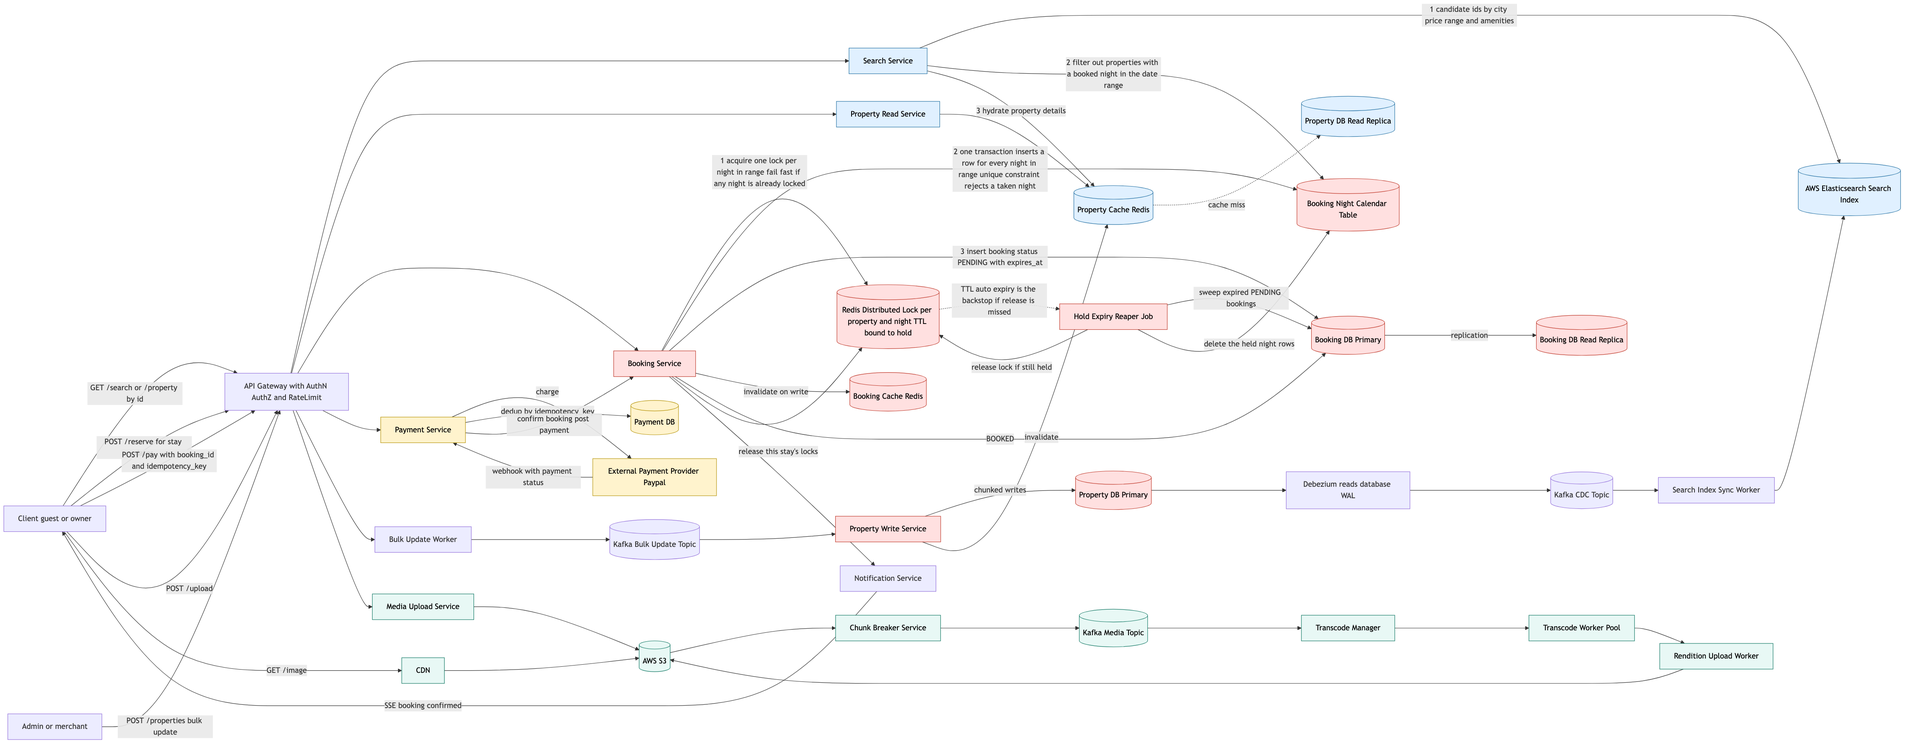
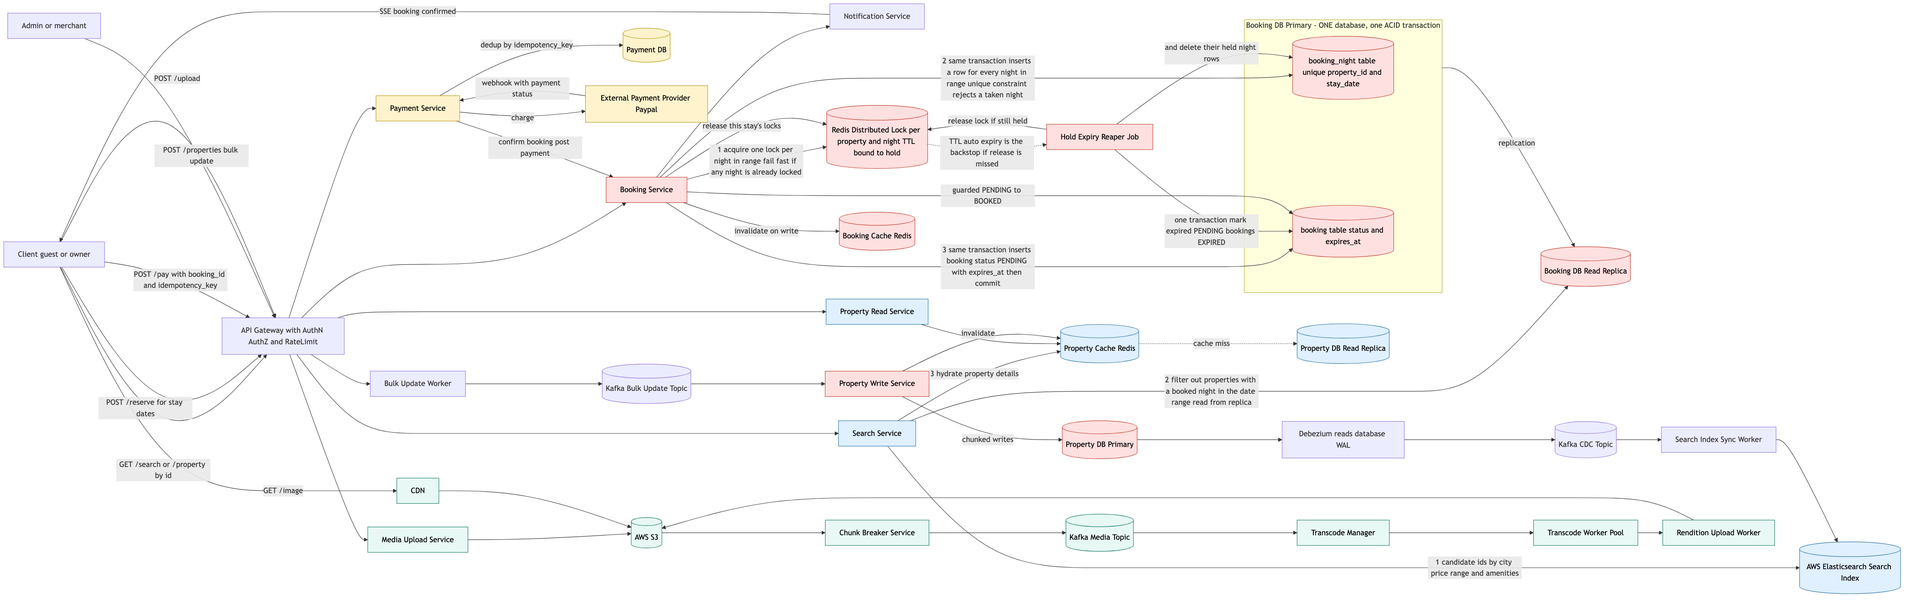
updated the design of booking system

diff --git a/practice/15-session/README.md b/practice/15-session/README.md
@@ -58,6 +58,7 @@ The crux isn't listing or paying for a property — it's that **two guests can a
 | **The double-booking guard has no durable backstop.** The requirements name a Redis distributed lock with a TTL hold, but the `Bookings` schema has a single `date` field with no unique constraint or range-exclusion — if the lock expires, is skipped, or a request retries, nothing in the database itself stops two bookings for the same night. | A distributed lock is a mutex, not a source of truth. Back it with a **unique constraint on `(property_id, stay_date)`** — since each property is a single bookable unit, that constraint alone rejects a second booking for the same night, no counter needed — so the database enforces the invariant even if the lock fails. | [Concurrency Control](../../concepts/08-distributed-systems/concurrency-control.md) |
 | **`Bookings.date` doesn't model a stay.** A single date field can't represent a check-in/check-out range, and it's ambiguous whether one row means one night or one whole stay — a booking for a 3-night stay has nowhere unambiguous to live. | Model one row per **booked night** (`property_id`, `stay_date`), with a **unique constraint on the pair** — since each property is a single bookable unit (Airbnb-style, not multi-room-type), the constraint alone *is* the double-booking guard: a second `INSERT` for the same property/night simply fails. Wrap one `INSERT` per night of the stay in a single transaction so a partial overlap can't leave a half-booked stay. See the Ideal Design schema below. | [Databases — Fundamentals](../../concepts/05-databases-and-storage/databases-fundamentals.md) |
 | **Search never checks availability.** The Property Reader service filters by city (via Elasticsearch) but never joins against Bookings — a guest can see, and attempt to book, a property that's already fully booked for their dates. | Wire search as two steps: candidate ids from the index (city/price), then a **live availability filter** against the booking-night table before returning results — the same "index for candidates, hydrate/verify from the source of truth" pattern already used for property details. | [Sharding & Partitioning](../../concepts/05-databases-and-storage/sharding-and-partitioning.md) |
+| **`booking` and the night-claim must commit together.** The original canvas has a single `Bookings` table, but the fix (one `booking_night` row per night) creates a second table whose rows and the `booking` row have to be written as one unit; drawn as a separate store or service, a crash between the two writes leaves nights locked with no booking, or a booking with no nights (a double-booking window). | Keep `booking_night` and `booking` in **one database** so the reserve is one local ACID transaction (`booking_night.booking_id` is a foreign key, which can't span databases anyway), and the reaper's `EXPIRED` + delete-nights is one transaction too. Everything else (payment confirm, notifications, search refresh) crosses the boundary through idempotent calls, the webhook, or events, not a shared transaction. | [Sharding & Partitioning](../../concepts/05-databases-and-storage/sharding-and-partitioning.md) |
 | **No idempotency key on `/book` or `/pay`.** Both are retriable client calls with no dedup token in the schema, risking a duplicate booking or a double charge on retry. | Idempotency key on both the booking row and the payment row, checked before the write — a repeat action item in this repo since S03/S04. | [API Security](../../concepts/04-apis/api-security.md) |
 | **The bulk-update requirement has no matching architecture.** "Admin can update thousands of properties at once" is named as a functional requirement, but Property Write service in the diagram only shows single-property writes — no batching, no async job, no throttled cache invalidation to avoid a thundering herd on `Property Cache`. | Give bulk updates their own async, chunked path with rate-limited (not synchronous, all-at-once) cache invalidation. | [Message Queue](../../concepts/07-messaging-and-events/message-queue.md) |
 | **No monitoring/alerting named anywhere.** The requirements state a "sync under 500ms" SLA with no metric backing it, and there's no signal for lock contention, replication lag, or pipeline failure. | Name concrete, alertable signals — see Logging, Monitoring & Alerts in the Ideal Design. | [Observability](../../concepts/09-reliability-and-operations/observability.md) |
@@ -92,10 +93,11 @@ The crux isn't listing or paying for a property — it's that **two guests can a
 
 ### Ideal architecture
 
-![Architecture diagram for the ideal property search and reservation system. A client calls an API Gateway handling authentication, authorization, and rate limiting. A blue read path has a Search Service that first gets candidate property ids by city, price range, and amenities from an AWS Elasticsearch search index, then filters out any candidate that already has a booked night in the requested date range against a Booking Night Calendar table, then hydrates property details from a Property Cache on Redis, falling back to a Property Database Read Replica on a cache miss; a Property Read Service serves single property lookups the same way. A red write path has a Booking Service that, on a reserve request, first acquires a Redis distributed lock per night in the stay range with a TTL bound to the hold window, then, once every night's lock is held, runs one database transaction inserting a row for every night in the stay range into the Booking Night Calendar table, where a unique constraint on property and night rejects any night already taken, and inserts a booking row with status PENDING and an expiry time into a Booking Database Primary, which replicates to a Booking Database Read Replica and invalidates a Booking Cache on Redis; a Hold Expiry Reaper Job sweeps expired PENDING bookings, deletes their held night rows from the calendar table, and releases any lock that was not already released; the same Redis lock's own TTL is a backstop that auto expires it even if the reaper is delayed. A yellow payment path has a Payment Service that charges an External Payment Provider such as PayPal, receives a webhook with payment status, deduplicates by an idempotency key against a Payment Database, and on success tells the Booking Service to flip the booking from PENDING to BOOKED and release the night's Redis locks, which then calls a Notification Service that pushes a booking confirmed event to the client over server sent events. A purple property-write and search-sync path has a Bulk Update Worker consuming admin bulk update requests through a Kafka topic into a Property Write Service that performs chunked writes to a Property Database Primary and asynchronous rate limited cache invalidation; the Property Database Primary is read by Debezium via database write ahead logs into a Kafka CDC topic consumed by a Search Index Sync Worker that updates the Search Index. A teal media path has a Media Upload Service writing to AWS S3, a Chunk Breaker Service publishing to a Kafka media topic, a Transcode Manager assigning work to a Transcode Worker Pool, and a Rendition Upload Worker writing finished renditions back to AWS S3, which the client reads through a CDN.](./diagrams/ideal-design.png)
+![Architecture diagram for the ideal property search and reservation system. A client calls an API Gateway handling authentication, authorization, and rate limiting. A blue read path has a Search Service that first gets candidate property ids by city, price range, and amenities from an AWS Elasticsearch search index, then filters out any candidate that already has a booked night in the requested date range by reading the booking night table from the Booking Database Read Replica, then hydrates property details from a Property Cache on Redis, falling back to a Property Database Read Replica on a cache miss; a Property Read Service serves single property lookups the same way. A red write path has a Booking Service that, on a reserve request, first acquires a Redis distributed lock per night in the stay range with a TTL bound to the hold window, then, once every night's lock is held, runs one database transaction on a single Booking Database Primary that holds both the booking night table and the booking table, inserting a row for every night in the stay range, where a unique constraint on property and night rejects any night already taken, and inserting a booking row with status PENDING and an expiry time in that same transaction; the Booking Database Primary replicates to a Booking Database Read Replica and invalidates a Booking Cache on Redis; a Hold Expiry Reaper Job marks expired PENDING bookings EXPIRED and deletes their held night rows in one transaction, and releases any lock that was not already released; the same Redis lock's own TTL is a backstop that auto expires it even if the reaper is delayed. A yellow payment path has a Payment Service that charges an External Payment Provider such as PayPal, receives a webhook with payment status, deduplicates by an idempotency key against a Payment Database, and on success tells the Booking Service to flip the booking from PENDING to BOOKED and release the night's Redis locks, which then calls a Notification Service that pushes a booking confirmed event to the client over server sent events. A purple property-write and search-sync path has a Bulk Update Worker consuming admin bulk update requests through a Kafka topic into a Property Write Service that performs chunked writes to a Property Database Primary and asynchronous rate limited cache invalidation; the Property Database Primary is read by Debezium via database write ahead logs into a Kafka CDC topic consumed by a Search Index Sync Worker that updates the Search Index. A teal media path has a Media Upload Service writing to AWS S3, a Chunk Breaker Service publishing to a Kafka media topic, a Transcode Manager assigning work to a Transcode Worker Pool, and a Rendition Upload Worker writing finished renditions back to AWS S3, which the client reads through a CDN.](./diagrams/ideal-design.png)
 
 - **Availability check is a first-class step in search, not an afterthought.** The Search Service does candidate-id lookup by city/price *then* a live filter against the booking-night calendar *then* hydration — a property that's already booked for the requested dates never reaches the client.
 - **`POST /reserve` is genuinely two-phase, matching the problem statement.** Step one: acquire a **Redis distributed lock per night** in the stay (`lock:{property_id}:{stay_date}`), TTL-bound to the hold window (e.g. 10 minutes) — if any night's lock is already held, fail fast without ever touching the database, which is exactly what shields a hot property from thrashing the DB during a spike. Step two, only once every night is locked: **one database transaction** `INSERT`s a `booking_night` row per night and the `booking` row (`status = PENDING`, `expires_at`). Because each property allows exactly one booking per night, the **unique constraint on `(property_id, stay_date)` is the durable backstop** — it's what still prevents a double booking even if the lock was lost, expired early, or skipped (a redeploy, a Redis failover, a retried request that never acquired the lock at all).
+- **`booking_night` and `booking` live in the same database.** The night rows are the inventory and the `booking` row is the hold, so they commit in **one local transaction** (and are released by the reaper in one transaction). That is what makes a half-written reservation impossible. The Property DB is deliberately separate: it only feeds search through CDC and never takes part in the reserve transaction.
 - **`POST /confirm` is the second phase, called after payment succeeds.** It flips the booking `PENDING → BOOKED` and releases that stay's Redis locks — at that point the durable `booking_night` rows are permanent proof of the booking, so the lock has done its job and can go.
 - **The hold's expiry has two independent backstops, not one.** The Redis lock's own **TTL auto-expires it** even if nothing else runs; separately, a `Hold Expiry Reaper` job sweeps `PENDING` bookings past their DB-side `expires_at`, deletes the corresponding held-night rows, and releases the lock if it's somehow still held. Two independent expiry paths (Redis TTL, DB-driven reaper) mean a stuck hold can't survive either one failing alone.
 - **Why keep the `booking_night` table at all, given the lock** — a distributed lock is fast but not durable: it can be lost on a Redis failover, misjudged on TTL, or simply never acquired by a buggy retry. Without a database-side constraint, that failure mode is a silent double booking. The lock and the table aren't redundant — the lock is the low-latency guard that keeps contention off the database; the table is the one thing that's actually true no matter what Redis does. This is also what avoids a **dual-write hazard**: the `booking_night` `INSERT` is the single write that makes a night "taken," never a second, independent system of record that could drift from it.
@@ -110,10 +112,10 @@ A step-by-step trace of one reservation, from `POST /reserve` through `POST /con
 2. **Acquire one Redis lock per night** — keys like `lock:property_42:2026-03-10`, each set with `SET key value NX EX <ttl>` (e.g. a 10-minute TTL matching the hold window). Each key's acquisition is atomic on its own.
    - **All locks acquired** → continue to step 3.
    - **Any lock already held** (another guest is mid-reservation for an overlapping night) → immediately release whichever locks *this* attempt did acquire, and return "unavailable for these dates" to the client. The database is never touched on this path — this is the cheap, sub-millisecond rejection that protects a hot property from a traffic spike.
-3. **One database transaction**: `INSERT` a `booking_night` row per night (`property_id`, `stay_date`, `booking_id`) and the `booking` row itself (`status = PENDING`, `expires_at = now + hold TTL`, `idempotency_key`). The `(property_id, stay_date)` unique constraint is checked here too — in the normal case it never fires, since the Redis lock already excluded every other concurrent attempt; it exists for the case the lock can't cover (step 7). On success, the client gets back a `booking_id` and price — the hold is now live in *both* Redis (fast) and Postgres (durable).
+3. **One database transaction on the Booking DB** (`booking_night` and `booking` share it): `INSERT` a `booking_night` row per night (`property_id`, `stay_date`, `booking_id`) and the `booking` row itself (`status = PENDING`, `expires_at = now + hold TTL`, `idempotency_key`). The `(property_id, stay_date)` unique constraint is checked here too — in the normal case it never fires, since the Redis lock already excluded every other concurrent attempt; it exists for the case the lock can't cover (step 7). On success, the client gets back a `booking_id` and price — the hold is now live in *both* Redis (fast) and Postgres (durable).
 4. **Client pays** — `POST /pay` with `booking_id` and an `idempotency_key`, routed to the Payment Service, which charges the external provider and waits on its webhook.
 5. **On a successful payment webhook**, the Payment Service tells the Booking Service to confirm: flip `booking.status` from `PENDING` to `BOOKED`, then **release that stay's Redis locks** — the `booking_night` rows are now permanent proof of the booking, so the lock has done its job and can go.
-6. **If payment never completes** (declined, abandoned, client disappears), two independent backstops reclaim the hold rather than relying on either alone: the **Redis lock's own TTL** simply expires, letting a fresh reservation attempt succeed immediately; separately, the **Hold Expiry Reaper**, sweeping the database continuously, finds `PENDING` bookings past their `expires_at`, deletes their `booking_night` rows, and defensively deletes the Redis key too in case the two TTLs ever drift apart (e.g. Redis was briefly unavailable when the lock should have been set).
+6. **If payment never completes** (declined, abandoned, client disappears), two independent backstops reclaim the hold rather than relying on either alone: the **Redis lock's own TTL** simply expires, letting a fresh reservation attempt succeed immediately; separately, the **Hold Expiry Reaper**, sweeping the database continuously, finds `PENDING` bookings past their `expires_at`, sets them `EXPIRED` and deletes their `booking_night` rows **in one transaction**, and defensively deletes the Redis key too in case the two TTLs ever drift apart (e.g. Redis was briefly unavailable when the lock should have been set).
 7. **What happens if the lock layer is bypassed entirely** (a bug, a Redis outage, a client that skips straight to step 3) — if two such requests reach step 3 for the same night, only one `INSERT` succeeds; the other hits the `(property_id, stay_date)` unique-constraint violation and its whole transaction rolls back. The client-visible outcome is the same "unavailable for these dates" as step 2, just discovered slightly later and at the cost of one wasted DB round-trip — never a double booking.
 
 The lock and the table are two layers of the same guarantee, not two competing ones: the **lock is where contention is normally resolved** — cheap and fast, keeping the database off the hot path — and the **constraint is where correctness is actually guaranteed**, the one thing still true no matter what Redis does.
@@ -147,7 +149,8 @@ A step-by-step trace of how a property write becomes searchable, without ever to
 
 | Store | Category | Why this category, not another |
 |---|---|---|
-| `property`, `booking_night`, `booking`, `payment` | **Relational (PostgreSQL)** | The reservation write needs a multi-row **ACID transaction** across every night in a stay, plus a **unique constraint** on `booking_night(property_id, stay_date)` and foreign keys tying booking → payment. This is the one place correctness beats raw throughput, and the constraint — enforced by the database, not the app — is the mechanism that actually prevents overbooking. |
+| `booking_night`, `booking` (+ `payment`) | **Relational (PostgreSQL), one Booking DB** | The reservation write needs a multi-row **ACID transaction** across every night in a stay, plus a **unique constraint** on `booking_night(property_id, stay_date)` and foreign keys tying booking → payment. This is the one place correctness beats raw throughput, and the constraint — enforced by the database, not the app — is the mechanism that actually prevents overbooking. |
+| `property`, `media`, `user` | **Relational (PostgreSQL), separate Property DB** | Small, admin-written, read through cache and CDC; kept out of the booking transaction so bulk updates can't contend with reservations |
 | Property/Booking detail cache | **In-memory KV, Redis, TTL + invalidate-on-write** | Sub-millisecond reads for a 100:1 read-heavy path; fully rebuildable from the relational store, so losing it costs latency, not correctness. |
 | Reservation hold lock (`lock:{property_id}:{stay_date}`) | **Redis distributed lock, TTL-bound to the hold window** | Needs to reject contention in **sub-millisecond time, before the DB is touched** — exactly what a distributed lock is for. Deliberately not the source of truth: losing it (a Redis failover) only costs a slightly slower rejection path, never correctness, because the `booking_night` unique constraint is what actually guarantees no double booking. |
 | Search candidates (`property` by city, price range, amenities, geo) | **Search index engine, AWS Elasticsearch** | Property search realistically needs more than city equality — geo-distance sorting ("near this landmark"), multi-attribute filtering (price range, guest count, amenities), and full-text on title/description, all with relevance ranking. That's Elasticsearch's actual shape; a plain key-value GSI would need bolt-on logic for each of these as the search feature grows. Sync via CDC (Debezium), never a synchronous dual-write, and treat it as a derived, read-optimized store — never the source of truth. |
@@ -157,6 +160,7 @@ A step-by-step trace of how a property write becomes searchable, without ever to
 ### Design trade-offs
 
 - **Redis distributed lock for latency, DB unique constraint for correctness — both, matching the problem statement, not one instead of the other.** The lock does the job it's actually good at: reject a concurrent request in Redis, in sub-millisecond time, before it ever reaches the database — critical for shielding a hot property from the DB during a spike. The `INSERT` against a unique `(property_id, stay_date)` constraint inside one transaction is what actually *enforces* the invariant durably, because a lock can be lost (Redis failover), mistimed (TTL), or simply skipped by a bug — none of which are acceptable ways to lose a double-booking guarantee. Neither piece alone is the ideal design; running the lock with no durable backstop is what the original session got wrong, and skipping the lock entirely would give up the latency benefit the problem explicitly asked for.
+- **One Booking DB for `booking_night` + `booking` over a service/DB per table** → the reserve and the expiry are single local transactions instead of a saga with compensations; costs independent scaling of the two, irrelevant at ~58 writes/s (~116 peak).
 - **Per-booked-night rows (sparse) over a whole-stay overlap row** — chosen because it turns the write into a plain unique-constrained `INSERT`, avoiding a range-exclusion constraint, and because only booked nights get a row at all (an open night simply has none), the table stays small regardless of catalog size. Trade-off: one `INSERT` per night written per booking, bounded by stay length (typically well under 14) and all inside one transaction.
 - **Elasticsearch over a plain key-value index for search** — a hotel/property search realistically needs geo-distance sorting, multi-attribute filtering (price range, amenities, guest count), and full-text on title/description with relevance ranking — a DynamoDB GSI covers only exact-match filters and would need a bolt-on for each of the others as the feature grows. Elasticsearch stays a synced, read-optimized index (via CDC), never the write-of-record.
 - **CP for booking/payment, AP for search/browse, stated explicitly** — a stale search result is corrected by the live availability check at reservation time; a stale booking or payment is never acceptable.
@@ -178,12 +182,13 @@ A step-by-step trace of how a property write becomes searchable, without ever to
 ## Takeaways to drill
 
 1. **Use the Redis distributed lock and the DB unique constraint together, not the lock alone.** The problem statement's two-step `reserve`/`confirm` flow with a Redis TTL hold is the right shape — but a lock by itself can be lost, mistimed, or skipped, so pair it with a durable `(property_id, stay_date)` unique constraint that's the actual source of truth. The lock buys latency; the constraint buys correctness. Neither substitutes for the other.
-2. **Wire search to filter on live availability before returning a result** — a property that looks bookable but isn't is a functional bug, not an edge case.
-3. **Match the search backing store to the actual query shape and say so out loud** — a property search that needs geo-distance, multi-attribute filters, and full-text ranking earns Elasticsearch's complexity; a pure equality lookup wouldn't. Name which one your search actually needs, and why.
-4. **Every hold needs a durable, DB-backed expiry path**, not just a cache TTL — a TTL-only hold doesn't survive a restart.
-5. **Idempotency keys belong on every retriable write** (reserve, pay, webhook) — this is now a repeat item across multiple sessions in this tracker.
-6. **Size the hot key** (concurrent reservation attempts on one popular property/date), not just the aggregate write QPS — it's the number that decides whether the gateway needs per-property throttling.
-7. **A bulk-write requirement needs its own architecture path** — batched/async with rate-limited cache invalidation — not just a line in the requirements.
-8. **Name monitoring signals concretely** — conflict rate, reaper backlog, replication lag, DLQ depth — "add monitoring" on its own isn't a design.
+2. **Keep atomic things in one database.** `booking_night` (the claim) and `booking` (the hold) commit and expire together, so they share a Booking DB; the Property DB stays separate because it never joins that transaction.
+3. **Wire search to filter on live availability before returning a result** — a property that looks bookable but isn't is a functional bug, not an edge case.
+4. **Match the search backing store to the actual query shape and say so out loud** — a property search that needs geo-distance, multi-attribute filters, and full-text ranking earns Elasticsearch's complexity; a pure equality lookup wouldn't. Name which one your search actually needs, and why.
+5. **Every hold needs a durable, DB-backed expiry path**, not just a cache TTL — a TTL-only hold doesn't survive a restart.
+6. **Idempotency keys belong on every retriable write** (reserve, pay, webhook) — this is now a repeat item across multiple sessions in this tracker.
+7. **Size the hot key** (concurrent reservation attempts on one popular property/date), not just the aggregate write QPS — it's the number that decides whether the gateway needs per-property throttling.
+8. **A bulk-write requirement needs its own architecture path** — batched/async with rate-limited cache invalidation — not just a line in the requirements.
+9. **Name monitoring signals concretely** — conflict rate, reaper backlog, replication lag, DLQ depth — "add monitoring" on its own isn't a design.
 
 > Tracker: [../README.md](../README.md) · drills: [Opening Ritual](../opening-ritual.md) · [Answer Framework](../answer-framework.md).
